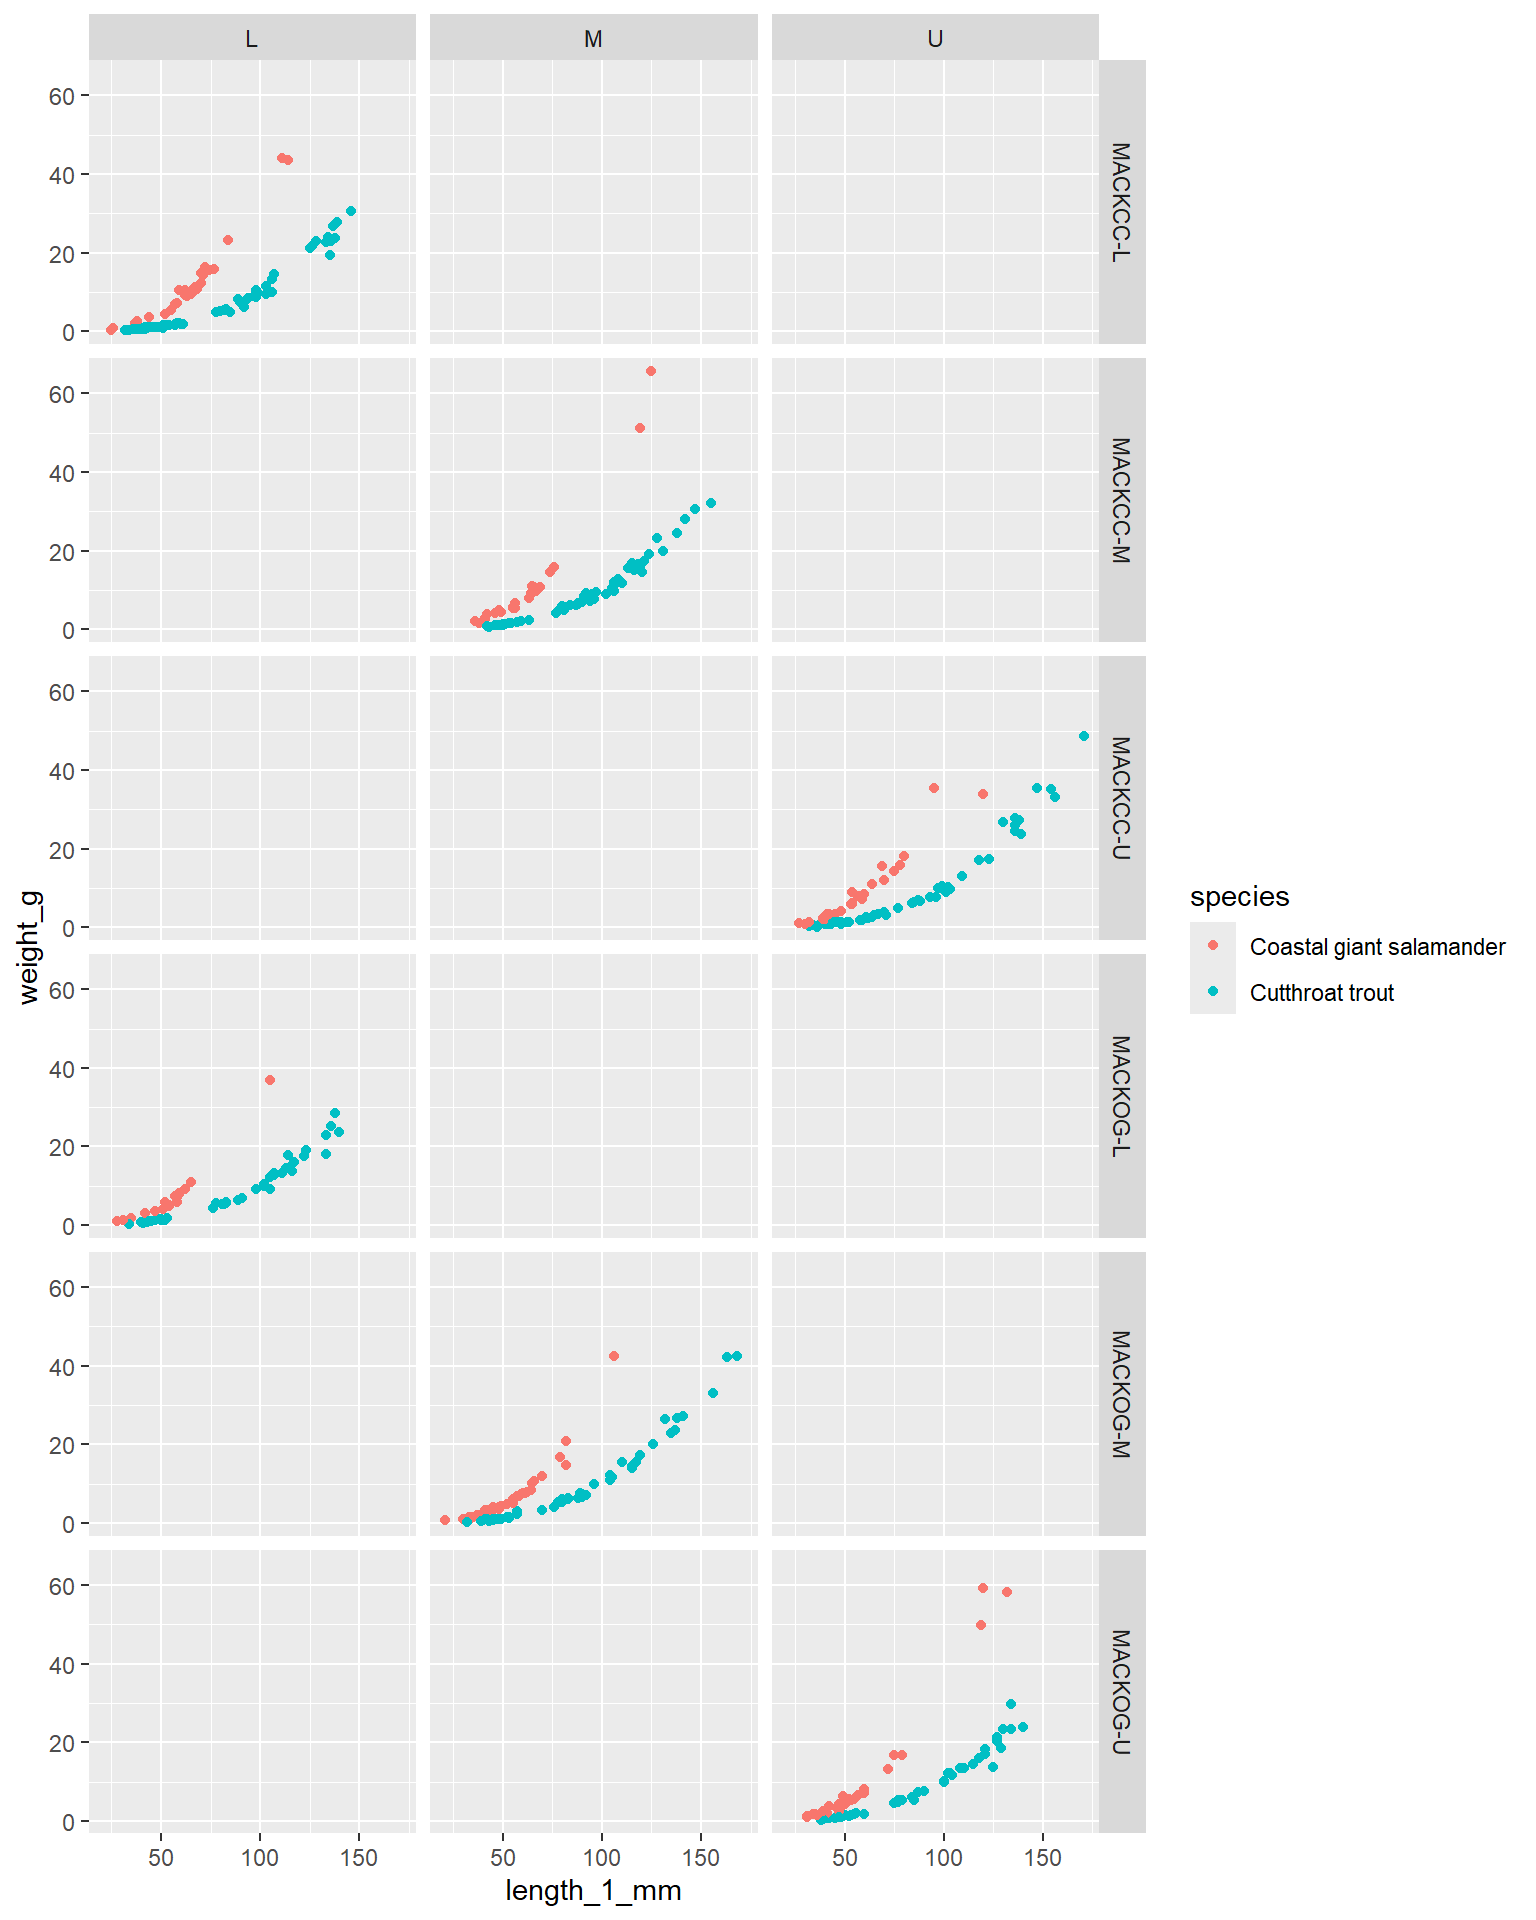
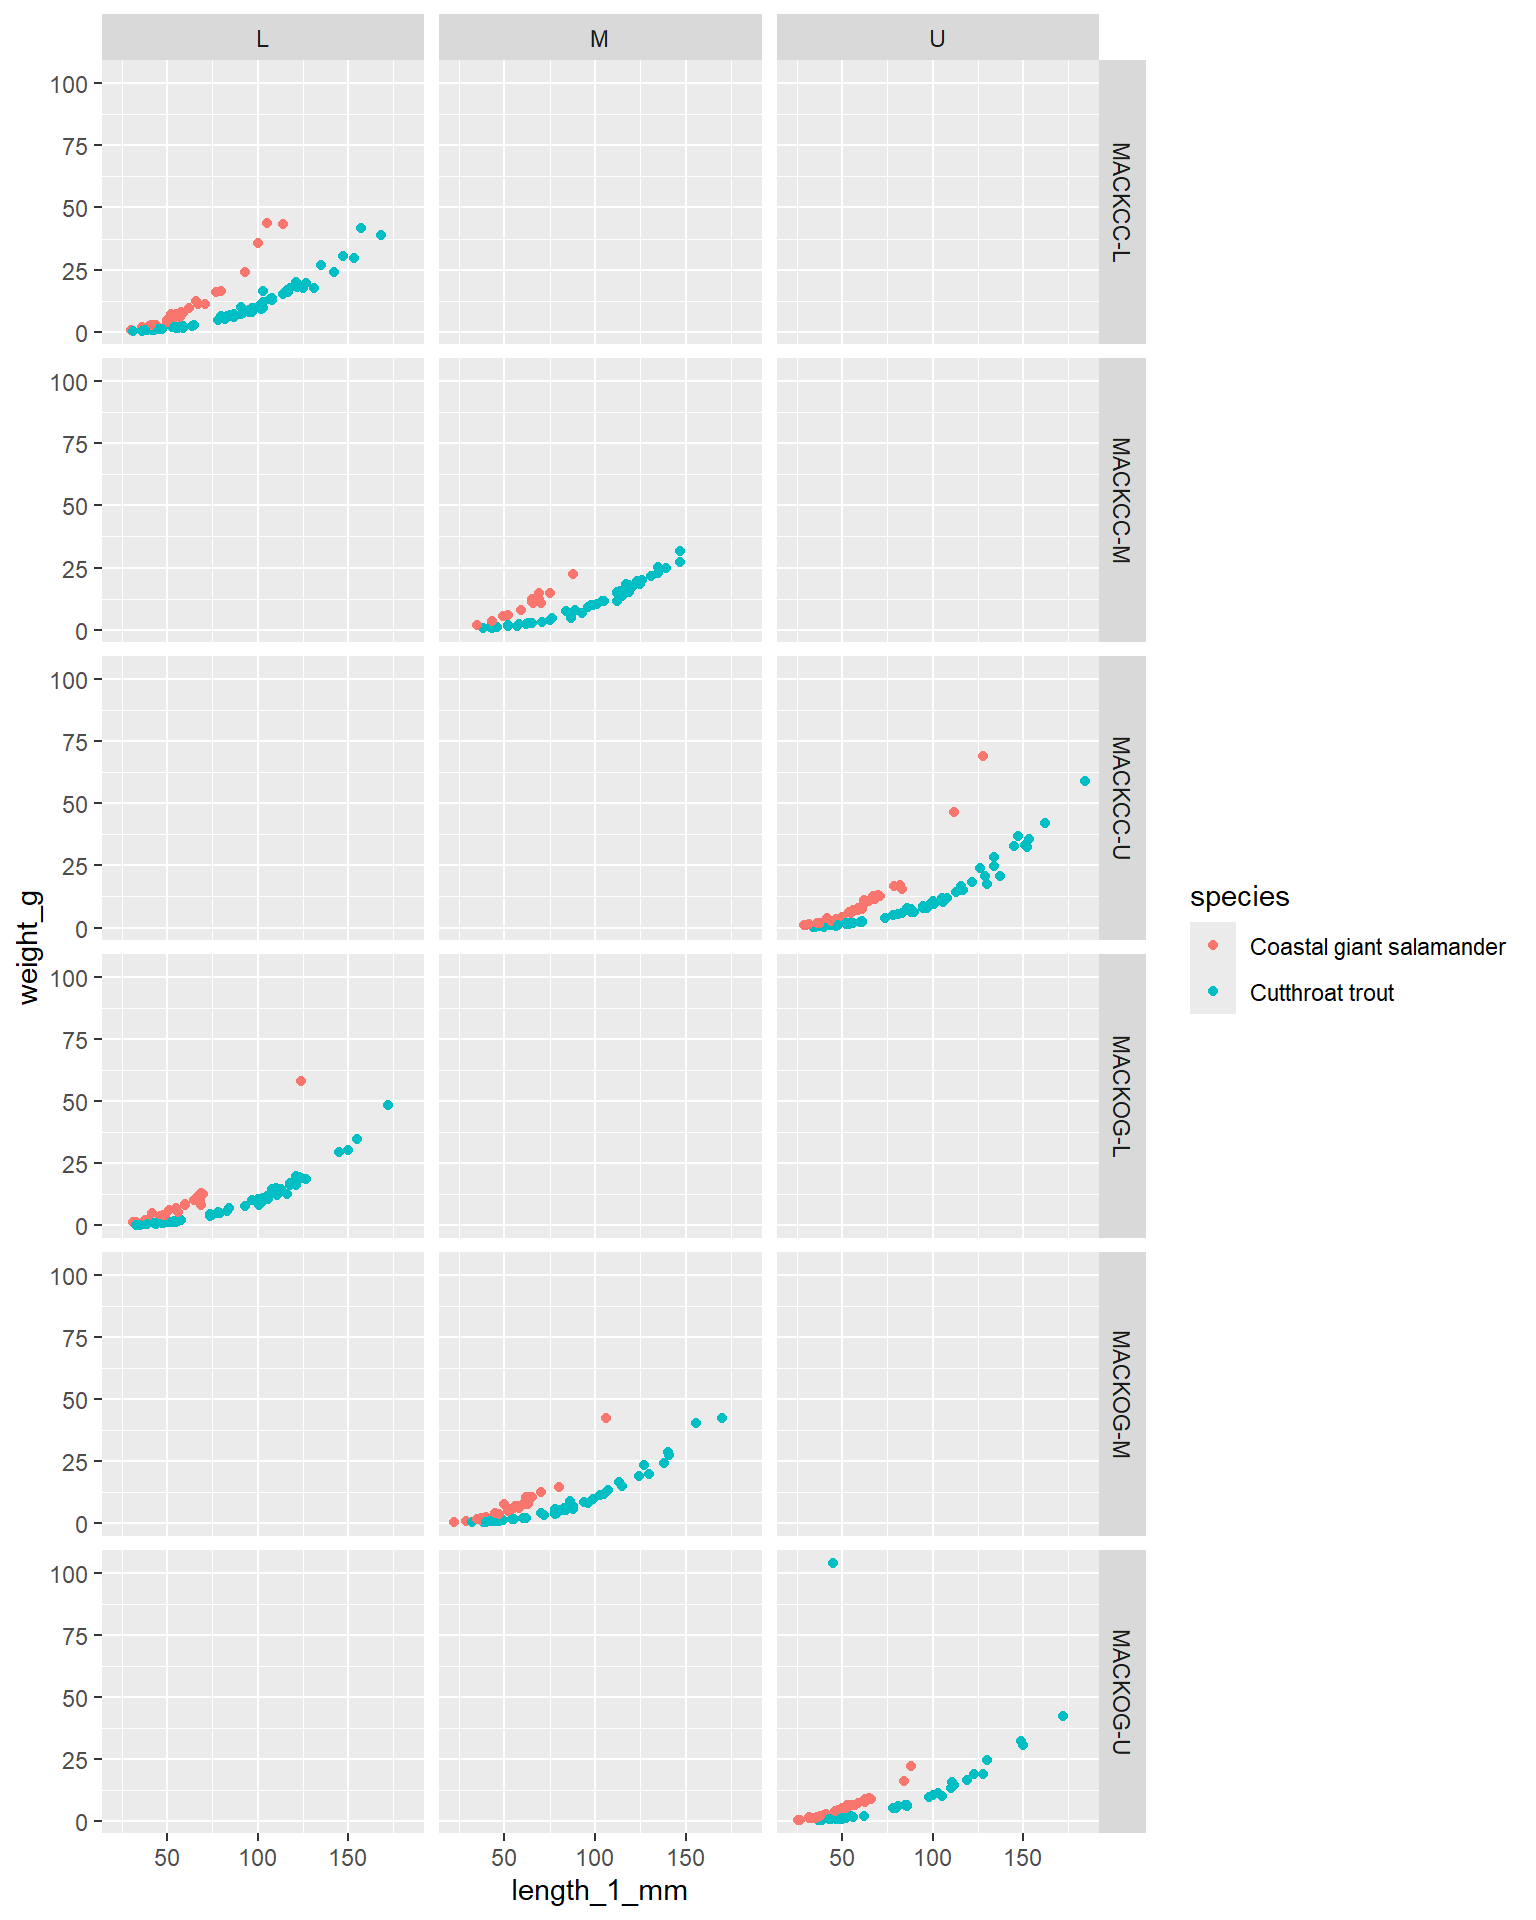
add revert

diff --git a/docs/github.html b/docs/github.html
@@ -161,15 +161,16 @@ pre > code.sourceCode > span > a:first-child::before { text-decoration: underlin
   <li><a href="#setup" id="toc-setup" class="nav-link" data-scroll-target="#setup">1 SETUP</a>
   <ul class="collapse">
   <li><a href="#save-details-to-git" id="toc-save-details-to-git" class="nav-link" data-scroll-target="#save-details-to-git">Save details to Git</a></li>
-  <li><a href="#personal-access-token" id="toc-personal-access-token" class="nav-link" data-scroll-target="#personal-access-token">Personal access token</a></li>
+  <li><a href="#personal-access-token-pat" id="toc-personal-access-token-pat" class="nav-link" data-scroll-target="#personal-access-token-pat">Personal Access Token (PAT)</a></li>
   </ul></li>
-  <li><a href="#github-and-rstudio" id="toc-github-and-rstudio" class="nav-link" data-scroll-target="#github-and-rstudio">1 GITHUB AND RSTUDIO</a>
+  <li><a href="#github-and-rstudio" id="toc-github-and-rstudio" class="nav-link" data-scroll-target="#github-and-rstudio">2 GITHUB AND RSTUDIO</a>
   <ul class="collapse">
   <li><a href="#from-github" id="toc-from-github" class="nav-link" data-scroll-target="#from-github">From GitHub</a></li>
   <li><a href="#from-rstudio" id="toc-from-rstudio" class="nav-link" data-scroll-target="#from-rstudio">From RStudio</a></li>
   <li><a href="#commits" id="toc-commits" class="nav-link" data-scroll-target="#commits">Commits</a></li>
   <li><a href="#push" id="toc-push" class="nav-link" data-scroll-target="#push">Push</a></li>
   <li><a href="#pull" id="toc-pull" class="nav-link" data-scroll-target="#pull">Pull</a></li>
+  <li><a href="#reverting-changes" id="toc-reverting-changes" class="nav-link" data-scroll-target="#reverting-changes">Reverting changes</a></li>
   <li><a href="#end" id="toc-end" class="nav-link" data-scroll-target="#end">END</a></li>
   </ul></li>
   </ul>
@@ -199,9 +200,9 @@ pre > code.sourceCode > span > a:first-child::before { text-decoration: underlin
 
 <section id="overview" class="level1">
 <h1>OVERVIEW</h1>
-<p>Quick introduction to connecting RStudio to GitHub. The session will be broken down into two main components:</p>
+<p>Quick introduction to connecting RStudio to GitHub. The session will be broken down into two components:</p>
 <ol type="1">
-<li><p>Install and setup</p></li>
+<li><p>Install and set up</p></li>
 <li><p>Basics of using GitHub from RStudio</p></li>
 </ol>
 <p>Helpful resources:</p>
@@ -220,7 +221,7 @@ pre > code.sourceCode > span > a:first-child::before { text-decoration: underlin
 </ol>
 <section id="save-details-to-git" class="level3">
 <h3 class="anchored" data-anchor-id="save-details-to-git">Save details to Git</h3>
-<p>Once you have the above sorted associate your details with Git.</p>
+<p>Once you have the above sorted associate your details with Git - NOTE: you must use the email address associated with your GitHub account here.</p>
 <div class="cell">
 <div class="sourceCode cell-code" id="cb1"><pre class="sourceCode r code-with-copy"><code class="sourceCode r"><span id="cb1-1"><a href="#cb1-1" aria-hidden="true" tabindex="-1"></a><span class="fu">library</span>(usethis)</span>
 <span id="cb1-2"><a href="#cb1-2" aria-hidden="true" tabindex="-1"></a><span class="fu">library</span>(gitcreds)</span>
@@ -228,9 +229,9 @@ pre > code.sourceCode > span > a:first-child::before { text-decoration: underlin
 <span id="cb1-4"><a href="#cb1-4" aria-hidden="true" tabindex="-1"></a>usethis<span class="sc">::</span><span class="fu">use_git_config</span>(<span class="at">user.name =</span> <span class="st">"my name"</span>, <span class="at">user.email =</span> <span class="st">"finn@gmail.com"</span>)</span></code><button title="Copy to Clipboard" class="code-copy-button"><i class="bi"></i></button></pre></div>
 </div>
 </section>
-<section id="personal-access-token" class="level3">
-<h3 class="anchored" data-anchor-id="personal-access-token">Personal access token</h3>
-<p>Set up credentials so we can access and alter GitHub repositories from <code>R</code>. Use the following code to take you to GitHub and generate a PAT.</p>
+<section id="personal-access-token-pat" class="level3">
+<h3 class="anchored" data-anchor-id="personal-access-token-pat">Personal Access Token (PAT)</h3>
+<p>Set up credentials so we can access and alter GitHub repositories from <code>R</code>. Use the following function to take you to GitHub and generate a PAT.</p>
 <div class="cell">
 <div class="sourceCode cell-code" id="cb2"><pre class="sourceCode r code-with-copy"><code class="sourceCode r"><span id="cb2-1"><a href="#cb2-1" aria-hidden="true" tabindex="-1"></a>usethis<span class="sc">::</span><span class="fu">create_github_token</span>()</span></code><button title="Copy to Clipboard" class="code-copy-button"><i class="bi"></i></button></pre></div>
 </div>
@@ -243,7 +244,7 @@ pre > code.sourceCode > span > a:first-child::before { text-decoration: underlin
 </section>
 </section>
 <section id="github-and-rstudio" class="level1">
-<h1>1 GITHUB AND RSTUDIO</h1>
+<h1>2 GITHUB AND RSTUDIO</h1>
 <p>The easiest way to get started is to create a new repo on GitHub and then clone it via HTTPS.</p>
 <section id="from-github" class="level3">
 <h3 class="anchored" data-anchor-id="from-github">From GitHub</h3>
@@ -274,8 +275,13 @@ pre > code.sourceCode > span > a:first-child::before { text-decoration: underlin
 <h3 class="anchored" data-anchor-id="pull">Pull</h3>
 <p>Pull is the inverse of “Push”, if the repo has been updated on GitHub since your local repo was last updated, use “Pull” to “download” the updates on GitHub to your local repo.</p>
 </section>
-<section id="end" class="level3">
-<h3 class="anchored" data-anchor-id="end">END</h3>
+<section id="reverting-changes" class="level3">
+<h3 class="anchored" data-anchor-id="reverting-changes">Reverting changes</h3>
+<p>A major reason to use Git is the ability to roll back changes to previous versions. How to do this will depend on whether the changes you want to discard have been staged, committed or pushed to GitHub.</p>
+<p>See <a href="https://intro2r.com/use_git.html#undo">HERE</a> for instructions on how to roll back a repo, for each scenario.</p>
+</section>
+<section id="end" class="level2">
+<h2 class="anchored" data-anchor-id="end">END</h2>
 
 
 </section>

diff --git a/docs/ggplot.html b/docs/ggplot.html
@@ -263,12 +263,12 @@ pre > code.sourceCode > span > a:first-child::before { text-decoration: underlin
 <pre><code># A tibble: 6 × 7
    year sitecode reach  pass species                  length_1_mm weight_g
   &lt;dbl&gt; &lt;chr&gt;    &lt;chr&gt; &lt;dbl&gt; &lt;chr&gt;                          &lt;dbl&gt;    &lt;dbl&gt;
-1  2018 MACKOG-M M         1 Cutthroat trout                  117    15.6 
-2  1990 MACKCC-U U         2 Cutthroat trout                  171    48.8 
-3  2018 MACKCC-L L         2 Cutthroat trout                   47     1   
-4  2010 MACKCC-L L         1 Coastal giant salamander          57     7.01
-5  1996 MACKOG-L L         1 Cutthroat trout                  123    19.2 
-6  2017 MACKCC-U U         1 Cutthroat trout                   41     0.74</code></pre>
+1  1992 MACKOG-L L         1 Cutthroat trout                  116     12.5
+2  2010 MACKCC-L L         1 Coastal giant salamander         114     43.5
+3  2018 MACKOG-M M         1 Coastal giant salamander          54      5.8
+4  1996 MACKOG-L L         1 Cutthroat trout                  145     29.6
+5  2008 MACKOG-U U         1 Cutthroat trout                   50      1.2
+6  1995 MACKOG-U U         1 Cutthroat trout                  111     13.9</code></pre>
 </div>
 </div>
 <p>The first step is to pass our data to <code>ggplot()</code> - this will not produce any output.</p>
